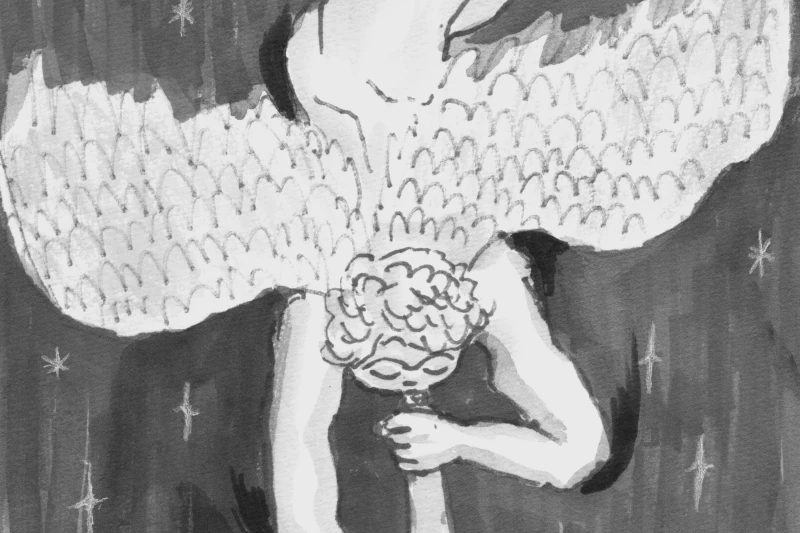
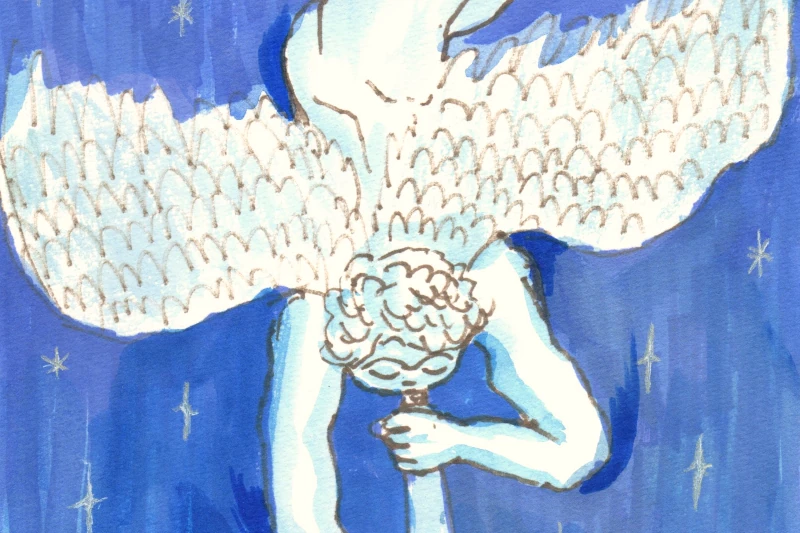
added grayscale hover to grid images + new posts

diff --git a/docs/en_index.html b/docs/en_index.html
@@ -44,96 +44,104 @@
 		</header>
 
 		<main>
-			<section class="page"> 
-				<div class="container" onclick="window.location.href='template.html?page=page5';" >
+			<section class="page"> <div class="container" onclick="window.location.href='template.html?page=page5';" >
 					<img class="grille-item" src="images/artworks.webp">
-					<div class="text">Artwork (Drawings/Paintings) - 2026</div>
+					<div class="text"><b>Artwork</b> - 2026</div>
+				</div>
+				<div class="container" onclick="window.location.href='template.html?page=page6';">
+					<img class="grille-item" src="images/atelier.webp">
+					<div class="text"><b>Website</b> - <i>Atelier</i> - En cours</div>
+				</div>
+				<div class="container" target="_blank" onclick="window.open('https://purple-star-create.github.io/Jeu-de-clavier/');return false;"  >
+					<img class="grille-item" src="images/site_clavier.webp">
+					<div class="text"><b>Website & App</b> - <i>Jeu de clavier</i> - October 2026</div>
+				</div>
+				<div class="container" target="_blank" onclick="window.open('https://purple-star-create.github.io/PHILIPPA_SHEPHERD/');return false;"  >
+					<img class="grille-item" src="images/site_philippa.webp">
+					<div class="text"><b>Portfolio website</b> - <i>Philippa Shepherd</i> - August 2026</div>
 				</div>
 				<div class="container" onclick="window.location.href='template.html?page=page20';" >
 					<img class="grille-item" src="images/liberty/visuel.webp">
-					<div class="text">⭐ Beauty Advent Calendar - Illustration - July 2026</div>
+					<div class="text"><b>Illustration</b> - ⭐ <i>Beauty Advent Calendar</i> - July 2026</div>
 				</div>
 				<div class="container" onclick="window.location.href='template.html?page=page19';" >
 					<img class="grille-item" src="images/capy.webp">
-					<div class="text">CapyBio - Cosmetic Branding & Packaging - June 2026</div>
+					<div class="text"><b>Brand Design</b> - <i>CapyBio</i> - June 2026</div>
 				</div>
 				<div class="container" onclick="window.location.href='template.html?page=page18';" >
 					<img class="grille-item" src="images/ours.webp">
-					<div class="text">🦌 Festival Poster - Far From 🌿 - May 2026</div>
+					<div class="text"><b>Communication</b> - 🦌 <i>Affiche Festival - Far From</i> 🌿 - May 2026</div>
 				</div>
 				<div class="container" onclick="window.location.href='template.html?page=page17';" >
 					<img class="grille-item" src="images/tarot.webp">
-					<div class="text">🔮 Manga Tarot Cards ✨ - May 2026</div>
+					<div class="text"><b>Editorial</b> - 🔮 <i>Tarot Manga</i> ✨ - May 2026</div>
 				</div>
 				<div class="container" target="_blank" onclick="window.open('https://www.jasonbutel.fr/');return false;" >
 					<img class="grille-item" src="images/site_jason.webp">
-					<div class="text">Portfolio Website - Jason Butel - April 2026</div>
+					<div class="text"><b>Portfolio website</b> - <i>Jason Butel</i> - April 2026</div>
 				</div>
 				<div class="container" onclick="window.location.href='template.html?page=page16';">
 					<img class="grille-item" src="images/ami_retrouve/visuel_1.webp">
-					<div class="text">Book cover - Reunion by Fred Uhlman - April 2026</div>
+					<div class="text"><b>Book Cover</b> - <i>L’Ami retrouvé de Fred Uhlman</i> - April 2026</div>
 				</div>
 				<div class="container" onclick="window.location.href='template.html?page=page15';">
 					<img class="grille-item" src="images/librairie.webp">
-					<div class="text">Fantasy Bookshop - Logo Design - April 2026</div>
+					<div class="text"><b>Brand Design</b> - <i>Librairie Fantasy</i> - April 2026</div>
 				</div>
 				<div class="container" onclick="window.location.href='template.html?page=page14';">
 					<img class="grille-item" src="images/purple.webp">
-					<div class="text">Purple Skincare - Cosmetic Branding & Packaging - March 2026</div>
+					<div class="text"><b>Brand Design</b> - <i>Purple Skincare</i> - March 2026</div>
 				</div>
 				<div class="container" onclick="window.location.href='template.html?page=page13';">
 					<img class="grille-item" src="images/salon.webp">
-					<div class="text">🐵 Children's Book Fair - Brochure - March 2026</div>
+					<div class="text"><b>Brochure</b> - 🐵 <i>Salon du livre jeunesse</i> - March 2026</div>
 				</div>
 				<div class="container" onclick="window.location.href='template.html?page=page12';">
 					<img class="grille-item" src="images/mockup_gif.gif">
-					<div class="text">🍏 Éditions Pomme - Publishing Logo & Branding - February 2026</div>
+					<div class="text"><b>Brand Design</b> - 🍏 <i>Éditions Pomme</i> - February 2026</div>
 				</div>
 				<div class="container" onclick="window.location.href='template.html?page=page11';">
 					<img class="grille-item" src="images/guimet.webp">
-					<div class="text">Personal project : Business Review Brochure for the Guimet Museum - January 2026</div>
+					<div class="text"><b>Editorial</b> - <i>Business Review Brochure for the Guimet Museum</i> - January 2026</div>
 				</div>
 				<div class="container" onclick="window.location.href='template.html?page=page9';">
 					<img class="grille-item" src="images/creative_seeds.webp">
-					<div class="text">Communication : Print media for Creative Seeds - 2025</div>
+					<div class="text"><b>Communication</b> - <i>Print media for Creative Seeds</i> - 2025</div>
 				</div>
 				<div class="container" onclick="window.location.href='template.html?page=page1';">
 					<img class="grille-item" src="images/charlie.webp">
-					<div class="text">Edition of "Charlie and the Chocolate Factory" - June 2025</div>
+					<div class="text"><b>Editorial</b> - <i>Charlie and the Chocolate Factory</i> - June 2025</div>
 				</div>
+				
 				<div class="container" onclick="window.location.href='template.html?page=page2';">
 					<img class="grille-item" src="images/deplie_moi.webp">
-					<div class="text">Déplie-moi : Research on pop-up books - June 2025</div>
+					<div class="text"><b>Editorial</b> - <i>Research on pop-up books</i> - June 2025</div>
 				</div>
 				
 				<div class="container" onclick="window.location.href='template.html?page=page10';">
 					<img class="grille-item" src="images/webdesign.webp">
-					<div class="text">Webdesign for Creative Seeds - 2025</div>
+					<div class="text"><b>Webdesign</b> - <i>Creative Seeds</i> - 2025</div>
 				</div>
 				<div class="container" onclick="window.location.href='template.html?page=page3';">
 					<img class="grille-item" src="images/jardin.webp">
-					<div class="text">Children's book "Dans le jardin" - 2021</div>
+					<div class="text"><b>Children's book</b> - <i>Dans le jardin</i> - 2021</div>
 				</div>
 				<div class="container" onclick="window.location.href='template.html?page=page4';">
 					<img class="grille-item" src="images/reliure.webp">
-					<div class="text">Editorial workshop  with Laurel Parker - January 2025</div>
+					<div class="text"><b>Editorial</b> - <i>Workshop with Laurel Parker</i> - January 2025</div>
 				</div>
 
 				<div class="container" onclick="window.open('https://purple-star-create.github.io/Find_The_Crow/');return false;">
 					<img class="grille-item" src="images/find_the_crow.webp">
-					<div class="text">Find The Crow - Octobre 2024</div>
-				</div>
-				<div class="container" onclick="window.location.href='template.html?page=page6';">
-					<img class="grille-item" src="images/atelier.webp">
-					<div class="text">Atelier - Online library of tools & references for graphic design - In progress</div>
+					<div class="text"><b>Website</b> - <i>Find The Crow</i> - October 2024</div>
 				</div>
 				<div class="container" onclick="window.location.href='template.html?page=page7';">
 					<img class="grille-item" src="images/devenir_une_graine.webp">
-					<div class="text">Internship report - Devenir une graine - May 2025</div>
+					<div class="text"><b>Website</b> - <i>Internship report</i> - May 2025</div>
 				</div>
 				<div class="container" onclick="window.location.href='template.html?page=page8';">
 					<img class="grille-item" src="images/gifs.webp">
-					<div class="text">GIFs</div>
+					<div class="text"><b>GIFs</b></div>
 				</div>
 				
 			</section>

diff --git a/docs/index.html b/docs/index.html
@@ -45,97 +45,105 @@
 		</header>
 
 		<main>
-			<section class="page"> 
+			<section class="page">
 				<div class="container" onclick="window.location.href='template.html?page=page5';" >
 					<img class="grille-item" src="images/artworks.webp">
-					<div class="text">Artworks (Dessins/Peintures) - 2026</div>
+					<div class="text"><b>Dessins/Peintures</b> - 2026</div>
+				</div>
+				<div class="container" onclick="window.location.href='template.html?page=page6';">
+					<img class="grille-item" src="images/atelier.webp">
+					<div class="text"><b>Site</b> - <i>Atelier</i> - En cours</div>
+				</div>
+				<div class="container" target="_blank" onclick="window.open('https://purple-star-create.github.io/Jeu-de-clavier/');return false;"  >
+					<img class="grille-item" src="images/site_clavier.webp">
+					<div class="text"><b>Site & App</b> - <i>Jeu de clavier</i> - Octobre 2026</div>
+				</div>
+				<div class="container" target="_blank" onclick="window.open('https://purple-star-create.github.io/PHILIPPA_SHEPHERD/');return false;"  >
+					<img class="grille-item" src="images/site_philippa.webp">
+					<div class="text"><b>Site Vitrine</b> - <i>Philippa Shepherd</i> - Août 2026</div>
 				</div>
 				<div class="container" onclick="window.location.href='template.html?page=page20';" >
 					<img class="grille-item" src="images/liberty/visuel.webp">
-					<div class="text">⭐ Calendrier de l'Avent Beauté - Illustration - Juillet 2026</div>
+					<div class="text"><b>Illustration</b> - ⭐ <i>Calendrier de l'Avent Beauté</i> - Juillet 2026</div>
 				</div>
 				<div class="container" onclick="window.location.href='template.html?page=page19';" >
 					<img class="grille-item" src="images/capy.webp">
-					<div class="text">CapyBio - Identité visuelle Cosmétique - Juin 2026</div>
+					<div class="text"><b>Identité visuelle</b> - <i>CapyBio</i> - Juin 2026</div>
 				</div>
 				<div class="container" onclick="window.location.href='template.html?page=page18';" >
 					<img class="grille-item" src="images/ours.webp">
-					<div class="text">🦌 Affiche Festival - Far From 🌿 - Mai 2026</div>
+					<div class="text"><b>Communication</b> - 🦌 <i>Affiche Festival - Far From</i> 🌿 - Mai 2026</div>
 				</div>
 				<div class="container" onclick="window.location.href='template.html?page=page17';" >
 					<img class="grille-item" src="images/tarot.webp">
-					<div class="text">🔮 Tarot Manga ✨ - Mai 2026</div>
+					<div class="text"><b>Édition</b> - 🔮 <i>Tarot Manga</i> ✨ - Mai 2026</div>
 				</div>
 				<div class="container" target="_blank" onclick="window.open('https://www.jasonbutel.fr/');return false;" >
 					<img class="grille-item" src="images/site_jason.webp">
-					<div class="text">Site Portfolio - Jason Butel - Avril 2026</div>
+					<div class="text"><b>Site Vitrine</b> - <i>Jason Butel</i> - Avril 2026</div>
 				</div>
 				<div class="container" onclick="window.location.href='template.html?page=page16';">
 					<img class="grille-item" src="images/ami_retrouve/visuel_1.webp">
-					<div class="text">Couverture - L’Ami retrouvé de Fred Uhlman - Avril 2026</div>
+					<div class="text"><b>Couverture</b> - <i>L’Ami retrouvé de Fred Uhlman</i> - Avril 2026</div>
 				</div>
 				<div class="container" onclick="window.location.href='template.html?page=page15';">
 					<img class="grille-item" src="images/librairie.webp">
-					<div class="text">Librairie Fantasy - Identité visuelle - Avril 2026</div>
+					<div class="text"><b>Identité visuelle</b> - <i>Librairie Fantasy</i> - Avril 2026</div>
 				</div>
 				<div class="container" onclick="window.location.href='template.html?page=page14';">
 					<img class="grille-item" src="images/purple.webp">
-					<div class="text">Purple Skincare - Identité visuelle Cosmétique - Mars 2026</div>
+					<div class="text"><b>Identité visuelle</b> - <i>Purple Skincare</i> - Mars 2026</div>
 				</div>
 				<div class="container" onclick="window.location.href='template.html?page=page13';">
 					<img class="grille-item" src="images/salon.webp">
-					<div class="text">🐵 Salon du livre jeunesse - Brochure - Mars 2026</div>
+					<div class="text"><b>Brochure</b> - 🐵 <i>Salon du livre jeunesse</i> - Mars 2026</div>
 				</div>
 				<div class="container" onclick="window.location.href='template.html?page=page12';">
 					<img class="grille-item" src="images/mockup_gif.gif">
-					<div class="text">🍏 Éditions Pomme - Identité visuelle - Février 2026</div>
+					<div class="text"><b>Identité visuelle</b> - 🍏 <i>Éditions Pomme</i> - Février 2026</div>
 				</div>
 				<div class="container" onclick="window.location.href='template.html?page=page11';">
 					<img class="grille-item" src="images/guimet.webp">
-					<div class="text">Projet perso : Rapport d'activité Musée Guimet - Janvier 2026</div>
+					<div class="text"><b>Édition</b> - <i>Rapport d'activité Musée Guimet</i> - Janvier 2026</div>
 				</div>
 				<div class="container" onclick="window.location.href='template.html?page=page9';">
 					<img class="grille-item" src="images/creative_seeds.webp">
-					<div class="text">Communication : Supports imprimés pour Creative Seeds - 2025</div>
+					<div class="text"><b>Communication</b> - <i>Supports imprimés pour Creative Seeds</i> - 2025</div>
 				</div>
 				<div class="container" onclick="window.location.href='template.html?page=page1';">
 					<img class="grille-item" src="images/charlie.webp">
-					<div class="text">Réédition de "Charlie and the Chocolate Factory" - Juin 2025</div>
+					<div class="text"><b>Édition</b> - <i>Charlie and the Chocolate Factory</i> - Juin 2025</div>
 				</div>
 				
 				<div class="container" onclick="window.location.href='template.html?page=page2';">
 					<img class="grille-item" src="images/deplie_moi.webp">
-					<div class="text">Déplie-moi : Recherche documentaire sur les livres animés - Juin 2025</div>
+					<div class="text"><b>Édition</b> - <i>Recherche documentaire sur les livres Pop-ups</i> - Juin 2025</div>
 				</div>
 				
 				<div class="container" onclick="window.location.href='template.html?page=page10';">
 					<img class="grille-item" src="images/webdesign.webp">
-					<div class="text">Webdesign pour Creative Seeds - 2025</div>
+					<div class="text"><b>Webdesign</b> - <i>Creative Seeds</i> - 2025</div>
 				</div>
 				<div class="container" onclick="window.location.href='template.html?page=page3';">
 					<img class="grille-item" src="images/jardin.webp">
-					<div class="text">Album jeunesse "Dans le jardin" - 2021</div>
+					<div class="text"><b>Album jeunesse</b> - <i>Dans le jardin</i> - 2021</div>
 				</div>
 				<div class="container" onclick="window.location.href='template.html?page=page4';">
 					<img class="grille-item" src="images/reliure.webp">
-					<div class="text">Workshop édition avec Laurel Parker - Janvier 2025</div>
+					<div class="text"><b>Édition</b> - <i>Workshop avec Laurel Parker</i> - Janvier 2025</div>
 				</div>
 
 				<div class="container" onclick="window.open('https://purple-star-create.github.io/Find_The_Crow/');return false;">
 					<img class="grille-item" src="images/find_the_crow.webp">
-					<div class="text">Find The Crow - Octobre 2024</div>
-				</div>
-				<div class="container" onclick="window.location.href='template.html?page=page6';">
-					<img class="grille-item" src="images/atelier.webp">
-					<div class="text">Atelier - Bibliothèque d'outils et de références pour le design graphique - En cours</div>
+					<div class="text"><b>Site</b> - <i>Find The Crow</i> - Octobre 2024</div>
 				</div>
 				<div class="container" onclick="window.location.href='template.html?page=page7';">
 					<img class="grille-item" src="images/devenir_une_graine.webp">
-					<div class="text">Rapport de stage - Devenir une graine - Mai 2025</div>
+					<div class="text"><b>Site</b> - <i>Rapport de stage</i> - Mai 2025</div>
 				</div>
 				<div class="container" onclick="window.location.href='template.html?page=page8';">
 					<img class="grille-item" src="images/gifs.webp">
-					<div class="text">GIFs</div>
+					<div class="text"><b>GIFs</b></div>
 				</div>
 				
 			</section>

diff --git a/docs/css/style.css b/docs/css/style.css
@@ -110,11 +110,6 @@ body{
   padding-bottom: 0.8em;
 }
 
-.text{
-  display: flex;
-  justify-content: space-between;
-}
-
 h2{
   font-size: 200%;
   padding-bottom: 1em;
@@ -128,7 +123,6 @@ header{
   font-size: 160%;
   font-family: 'GrandcafeW01-Bold';
   position: absolute;
-  padding-bottom: 100px;
 }
 
 .mini_logo{
@@ -217,7 +211,9 @@ header{
 /* ----------------------------- */
 
 header{
-  padding: 2em;
+  padding-top: 2em;
+  padding-left: 2em;
+   padding-bottom: 5em;
 }
 
 .header_template{
@@ -234,9 +230,9 @@ header{
 
 .page{
   display: grid;
-  grid-template-columns: 1fr 1fr 1fr;
-  padding: 1.5vw;
-  padding-top: 40px;
+  grid-template-columns: 1fr 1fr 1fr 1fr;
+  padding: 2vw;
+  padding-top: 0px;
   align-content: center;
 }
 
@@ -367,7 +363,7 @@ ul{
 
   .container{
     max-width: 100vw;
-  }
+  } 
 
   .logo{
     font-size: 85%;
@@ -476,6 +472,14 @@ ul{
     max-width: 100%;
   }
 
+  .container{
+    filter: grayscale(100%);
+  }
+
+  .container:hover{
+    filter: grayscale(0);
+  }
+
 }
 
 /* ----------------------------- */
@@ -520,7 +524,7 @@ ul{
 /* COLOURS
 /* ----------------------------- */
 
-body, header{
+body{
   background-color: #fffaeb;
 }
 
